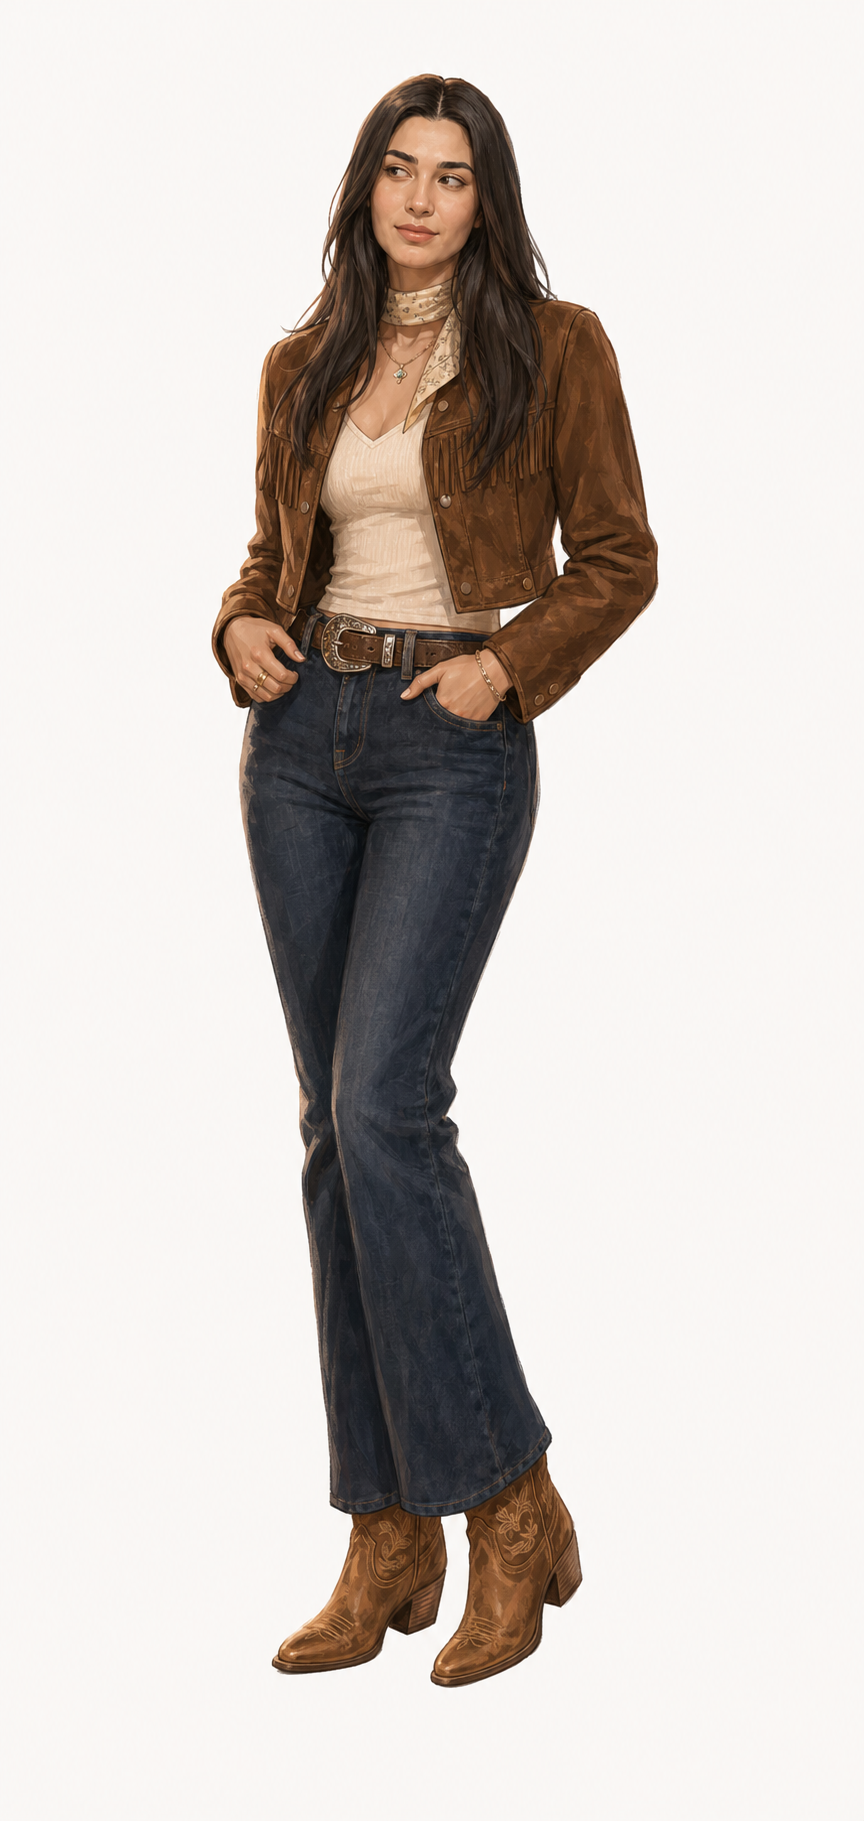
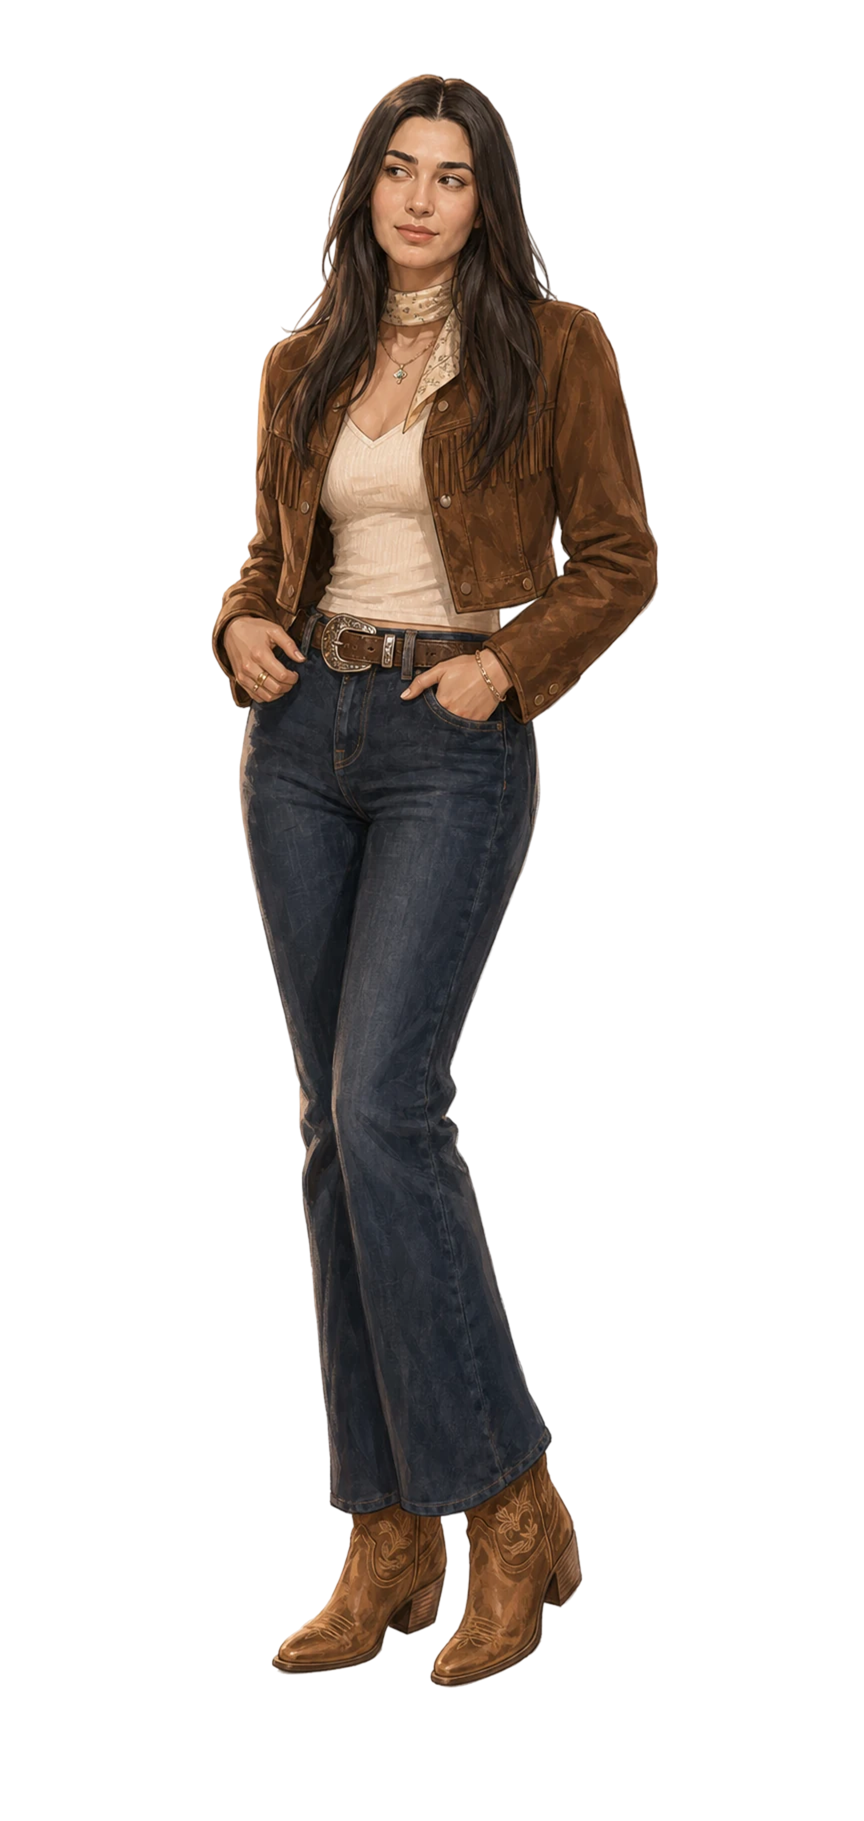
Update ball group scenes

diff --git a/styles.css b/styles.css
@@ -179,6 +179,65 @@ button {
     saturate(1.05);
 }
 
+.scene--gate-lineup .character {
+  height: min(68vh, 650px);
+  max-width: 36vw;
+}
+
+.scene--gate-lineup .character--left {
+  left: 3vw;
+}
+
+.scene--gate-lineup .character--right {
+  right: 3vw;
+}
+
+.scene--gate-lineup .character--center {
+  --character-scale: 1.02;
+  z-index: 3;
+}
+
+.scene--friends-toast .character {
+  --character-scale: 0.94;
+  bottom: 106px;
+  height: min(62vh, 600px);
+  max-width: 28vw;
+  filter: drop-shadow(0 24px 34px rgba(0, 0, 0, 0.32));
+}
+
+.scene--friends-toast .character--friend-far-left {
+  left: 1vw;
+  z-index: 1;
+}
+
+.scene--friends-toast .character--friend-left {
+  left: 15vw;
+  z-index: 2;
+}
+
+.scene--friends-toast .character--friend-mid-left {
+  left: 29vw;
+  z-index: 3;
+}
+
+.scene--friends-toast .character--friend-mid-right {
+  --character-flip: 1;
+  right: 29vw;
+  z-index: 3;
+}
+
+.scene--friends-toast .character--friend-right {
+  --character-flip: 1;
+  right: 15vw;
+  z-index: 2;
+}
+
+.scene--friends-toast .character--friend-far-right {
+  --character-flip: 1;
+  right: 1vw;
+  z-index: 1;
+}
+
 .system-toast {
   position: absolute;
   top: 80px;
@@ -683,6 +742,53 @@ button {
 
   .character--center {
     max-width: 74vw;
+  }
+
+  .scene--gate-lineup .character {
+    height: min(48vh, 420px);
+    max-width: 43vw;
+  }
+
+  .scene--gate-lineup .character--left {
+    left: -6vw;
+  }
+
+  .scene--gate-lineup .character--right {
+    right: -8vw;
+  }
+
+  .scene--gate-lineup .character--center {
+    max-width: 48vw;
+  }
+
+  .scene--friends-toast .character {
+    bottom: 246px;
+    height: min(39vh, 335px);
+    max-width: 36vw;
+  }
+
+  .scene--friends-toast .character--friend-far-left {
+    left: -4vw;
+  }
+
+  .scene--friends-toast .character--friend-left {
+    left: 8vw;
+  }
+
+  .scene--friends-toast .character--friend-mid-left {
+    left: 20vw;
+  }
+
+  .scene--friends-toast .character--friend-mid-right {
+    right: 20vw;
+  }
+
+  .scene--friends-toast .character--friend-right {
+    right: 8vw;
+  }
+
+  .scene--friends-toast .character--friend-far-right {
+    right: -4vw;
   }
 
   .dialogue {

diff --git a/game.js b/game.js
@@ -5,7 +5,7 @@ const assets = {
   friend3: "assets/friend3.webp?v=20260610",
   friend4: "assets/friend4.webp?v=20260610",
   friend5: "assets/friend5.webp?v=20260610",
-  friend6: "assets/friend6.webp?v=20260610",
+  friend6: "assets/friend6.webp?v=20260612",
   cowboyStable: "assets/cowboy-stable.webp?v=20260610",
   cowboySaloon: "assets/cowboy-saloon.webp?v=20260610",
   cowboyGroom: "assets/cowboy-groom.webp?v=20260610",
@@ -805,8 +805,10 @@ const scenes = {
   ballLanternFix: {
     mode: "wide",
     background: backgrounds.lastRodeoGate,
+    className: "scene--gate-lineup",
     characters: [
       { id: "cowboyStable", position: "left" },
+      { id: "cowboySaloon", position: "center" },
       { id: "cowboyGroom", position: "right" },
     ],
     text:
@@ -847,9 +849,14 @@ const scenes = {
   ballFriendsToast: {
     mode: "wide",
     background: backgrounds.lastRodeoBall,
+    className: "scene--friends-toast",
     characters: [
-      { id: "friend1", position: "left" },
-      { id: "friend4", position: "right" },
+      { id: "friend1", position: "friend-far-left" },
+      { id: "friend2", position: "friend-left" },
+      { id: "friend3", position: "friend-mid-left" },
+      { id: "friend4", position: "friend-mid-right" },
+      { id: "friend5", position: "friend-right" },
+      { id: "friend6", position: "friend-far-right" },
     ],
     text:
       "Подруги встречают Поли у входа. Кастинг ковбоев завершён. Жетон не проигран. Подкова у правильного человека.",

diff --git a/index.html b/index.html
@@ -22,7 +22,7 @@
       as="image"
     />
     <link rel="preload" href="assets/polina.webp?v=20260610" as="image" />
-    <link rel="stylesheet" href="styles.css?v=20260612-title" />
+    <link rel="stylesheet" href="styles.css?v=20260612-friends-toast-large" />
   </head>
   <body>
     <main id="game" class="game" aria-live="polite">
@@ -39,6 +39,6 @@
         </article>
       </section>
     </main>
-    <script src="game.js?v=20260612-title"></script>
+    <script src="game.js?v=20260612-friends-toast"></script>
   </body>
 </html>